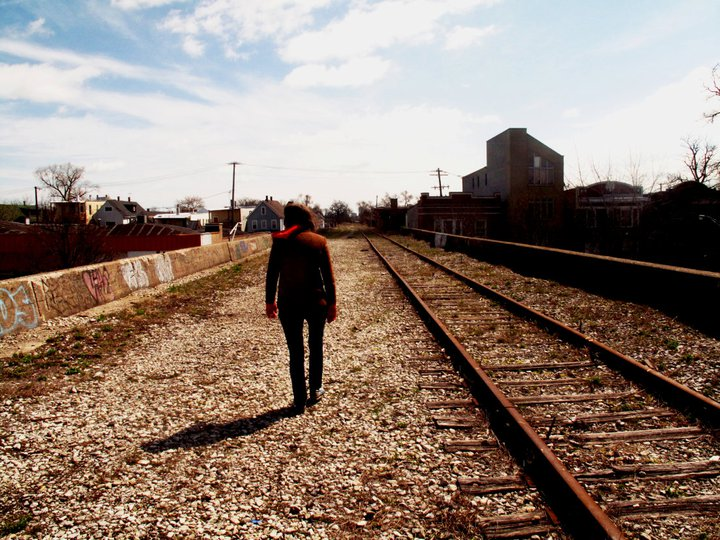
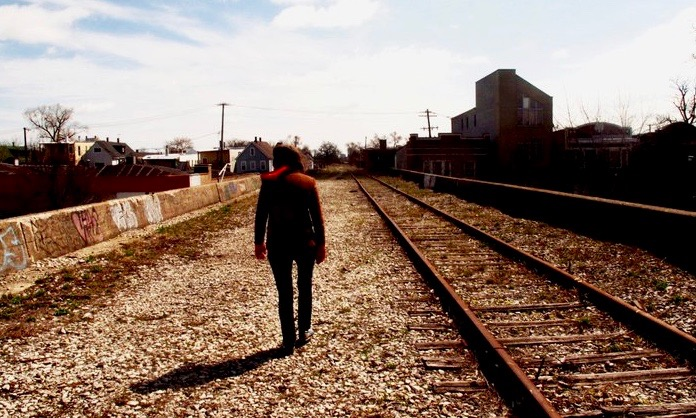
Updated photo aspect, and added indents to all paragraphs following initial paragraph via CSS

diff --git a/screen.css b/screen.css
@@ -70,6 +70,10 @@ figure, p {
 	padding-bottom: 1.22222em;
 }
 
+p {
+	text-indent: 1.222222em;
+}
+
 h1 {
 	font-size: 2.778em; /* 50.02 px/ 18px = 2.778*/
 	line-height: 1.319em; /* 66px / 50.02px = 1.39em ; 3 gridlines (22px */
